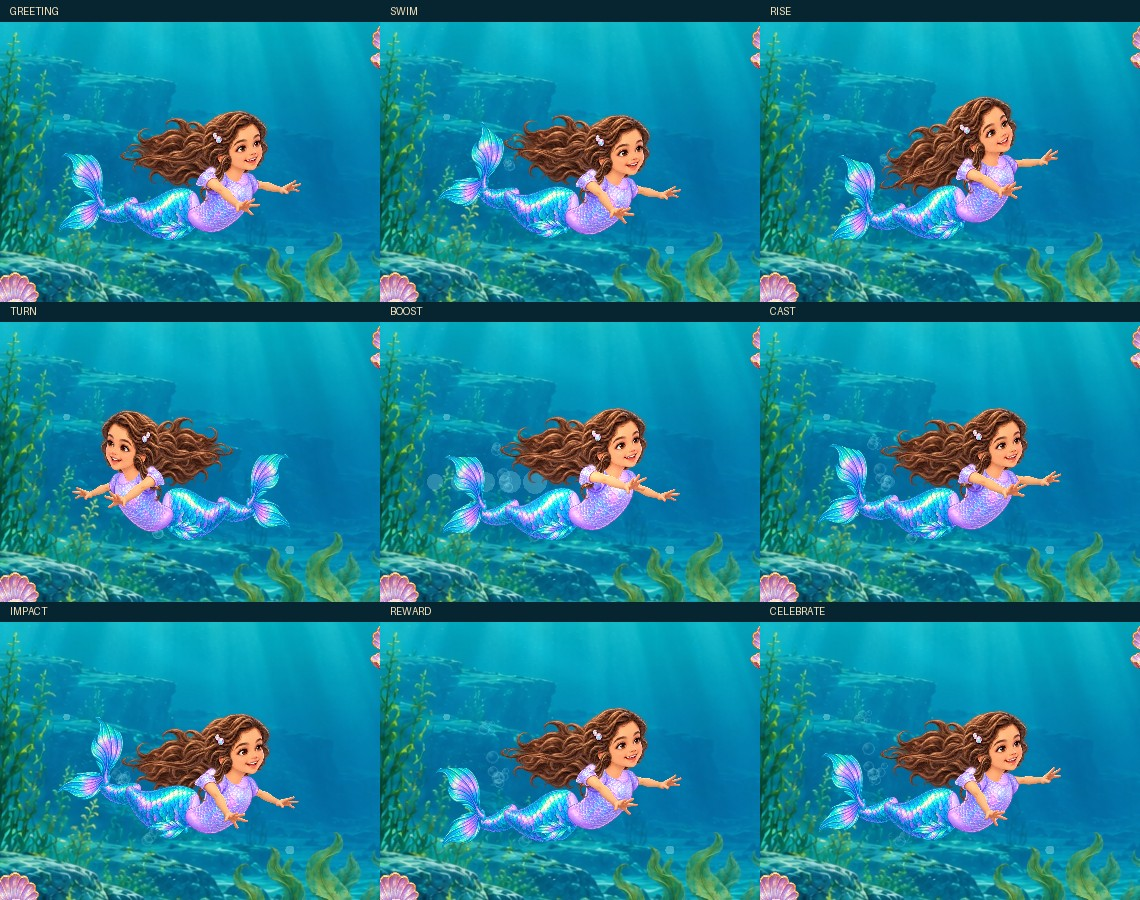
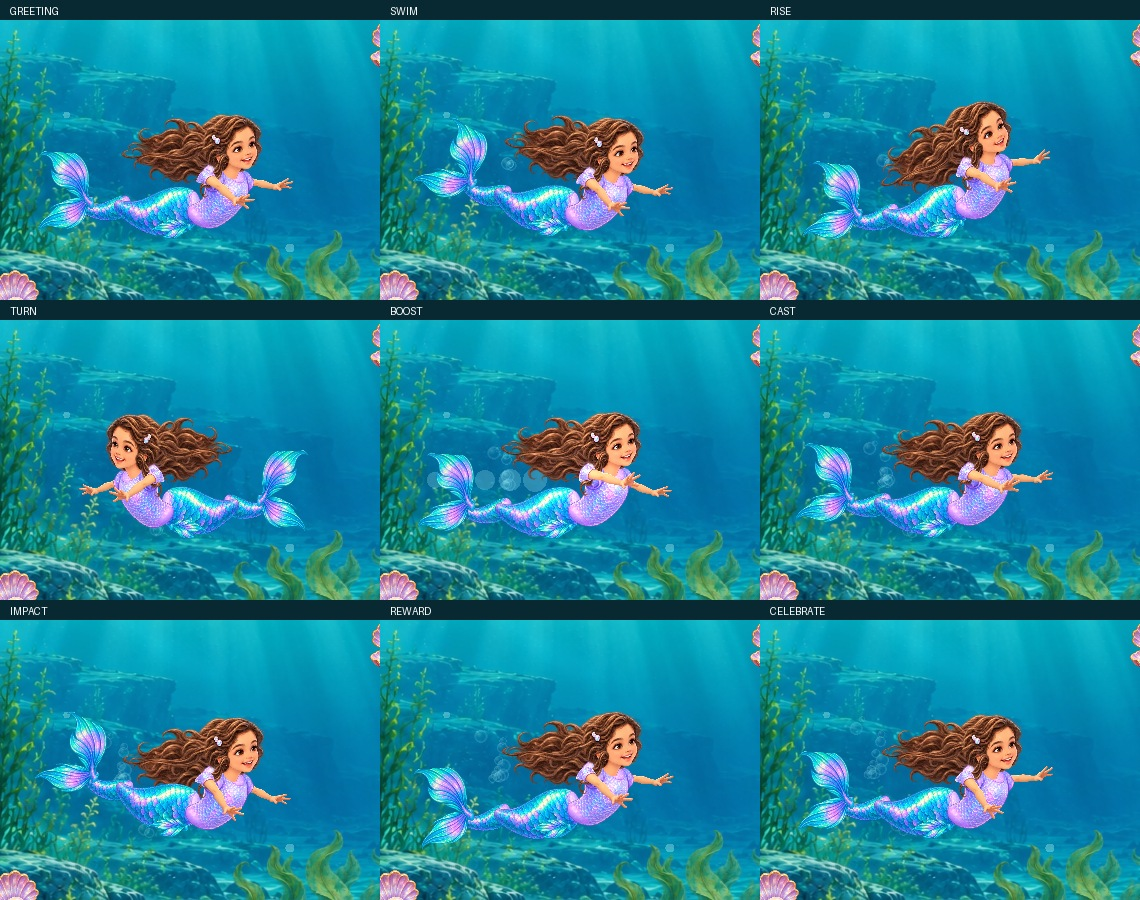
Refine Sarah proportions and silhouette with graceful coordinated fins

diff --git a/godot/package_project.py b/godot/package_project.py
@@ -26,7 +26,7 @@ Press F6 on godot/highland_level.tscn to go directly to Level 1.
 The main project runs the illustrated opening and menu first.
 
 v0.12: connected, deformable Sarah arms, hair, tail and fins, expressive gestures,
-flowing swim cycles, more responsive steering/braking and proportional touch controls.
+refined head/body/arm proportions, an elongated tail, flowing swim cycles, more responsive steering/braking and proportional touch controls.
 Includes all previous menu, enemy, environment, waterfall, jump and reliable ZIP improvements.
 F3: Reduced Motion. F4: Economy/High depth. M: music.
 

diff --git a/godot/README.md b/godot/README.md
@@ -263,3 +263,7 @@ Recommended next phases: visually test the shader and rig in a Godot editor wind
 ## Credits
 
 Artwork and soundtrack derive from assets already in this repository. Their copyright status does not change. Godot Engine is MIT-licensed.
+
+### Sarah silhouette refinement
+
+The v0.12 character refinement lengthens the tail from its fixed hip socket, reduces the head slightly, narrows the bodice and gives the arms more delicate proportions. Hair and neck sockets follow the new shoulder line; fins open into a coordinated, phase-offset fan rather than competing flutter frequencies. Gameplay collision and steering remain unchanged.
